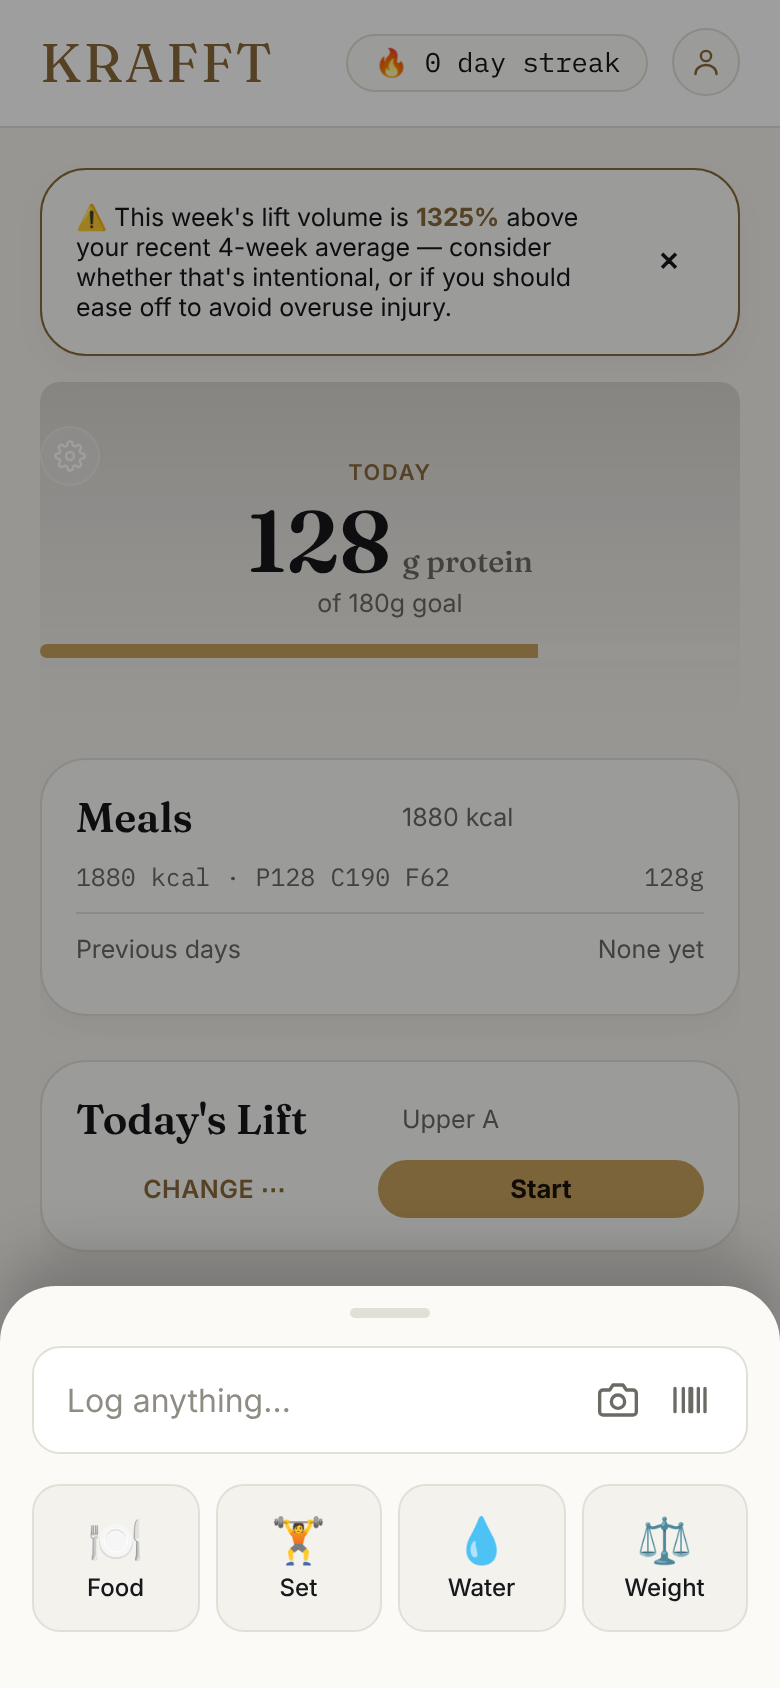
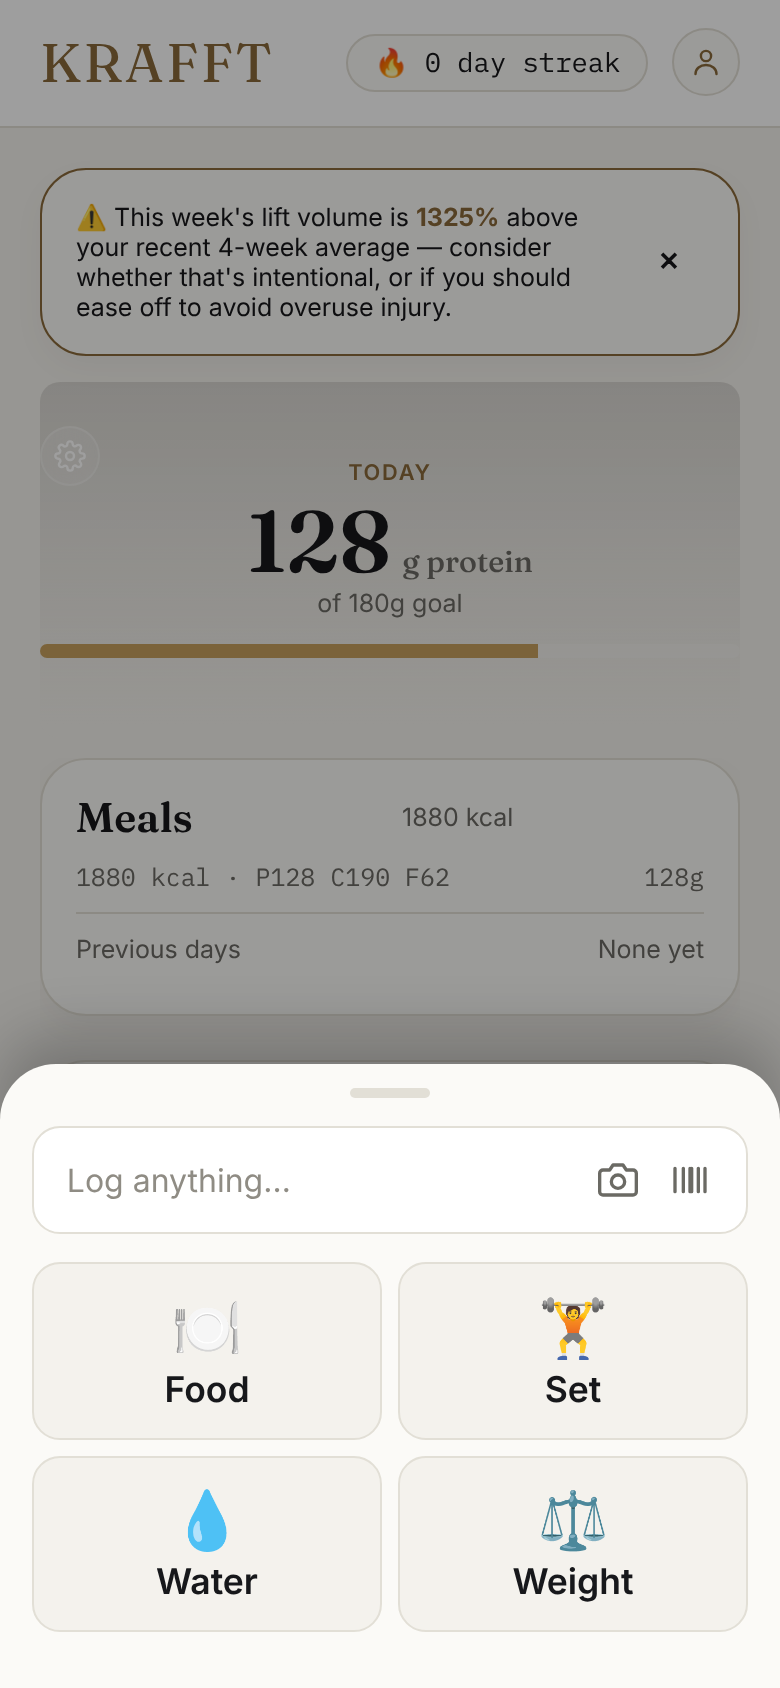
Fidelity pass: Section 3b (+ button) fixes
- Weight prefill bug (found via A2 and re-confirmed here): a freshly-
  added exercise's weight field stayed blank/zero because the prefill
  only looked at this live session's own prior sets, never at actual
  exercise history. resetExerciseDetailInput() now falls back to the
  most recent historical weight when neither exists - the mockup always
  shows a prefilled weight, never a blank one. Fixes both the A2 screen
  and the quick-log screen at once, since both share this function.
- + sheet tiles: mockup is a 2x2 grid, this was a single row of 4;
  "last used" was a gold outline with no label, mockup is a 2px ink
  border plus a "Last used" caption underneath.
- "Log a set" picker: title was 17.6px, scaled mockup value is 27px;
  "Close" was a plain ghost button, mockup styles it as a chip.
- Quick-log screen's "Open full workout" link was forced uppercase by
  the shared .btn-link rule; mockup shows it in sentence case,
  underlined - fixed with a scoped inline override, not a global change.

Claude-Session: https://claude.ai/code/session_015L9cyNh1v2vMK9ZcFbmR4a

diff --git a/index.html b/index.html
@@ -483,11 +483,16 @@
   .plus-log-field input::placeholder { color: var(--text-faint); }
   .plus-log-field button { background: none; border: none; padding: 0.2rem; cursor: pointer; color: var(--text-dim); display: flex; }
   .plus-log-field svg { width: 20px; height: 20px; }
-  .plus-tiles { display: grid; grid-template-columns: repeat(4, 1fr); gap: 0.5rem; margin-top: 0.9rem; }
+  /* Mockup: 2x2 grid (not a single row of 4), tile label 12.5px/600, icon
+     20px, last-used = 2px ink border + a "Last used" caption - not a
+     gold outline with no caption. Mockup px x1.4234: label ~1.11rem,
+     icon ~1.78rem. */
+  .plus-tiles { display: grid; grid-template-columns: repeat(2, 1fr); gap: 0.5rem; margin-top: 0.9rem; }
   .plus-tile { background: var(--bg); border: 1px solid var(--border); border-radius: 14px; text-align: center;
-    padding: 0.85rem 0.1rem; font-size: 0.75rem; font-weight: 500; color: var(--text); cursor: pointer; }
-  .plus-tile.last-used { outline: 2px solid var(--gold, #C7A15E); outline-offset: -1px; }
-  .plus-tile b { display: block; font-size: 1.4rem; margin-bottom: 0.2rem; font-weight: 400; }
+    padding: 0.85rem 0.1rem; font-size: 1.11rem; font-weight: 600; color: var(--text); cursor: pointer; }
+  .plus-tile.last-used { border: 2px solid var(--text); }
+  .plus-tile b { display: block; font-size: 1.78rem; margin-bottom: 0.2rem; font-weight: 400; }
+  .plus-tile-lastused-caption { display: block; font-size: 0.68rem; font-weight: 500; color: var(--text-dim); margin-top: 0.15rem; }
   .plus-confirm-row { display: flex; justify-content: space-between; padding: 0.5rem 0; border-top: 1px solid var(--divider); }
   .plus-confirm-row:first-of-type { border-top: none; }
 
@@ -3762,6 +3767,7 @@ function plusSheetHtml() {
   const tile = (key, label, icon) => `
     <button class="plus-tile ${last === key ? 'last-used' : ''}" data-plus-tile="${key}">
       <b>${icon}</b>${label}
+      ${last === key ? `<span class="plus-tile-lastused-caption">Last used</span>` : ''}
     </button>`;
   return `
     <div class="plus-sheet-handle"></div>
@@ -9969,9 +9975,9 @@ function quickWorkoutAddExercise(name) {
 // so a set logged here has the same autosave, rest timer and PR checks.
 function renderPlusLogSetPicker(panel) {
   panel.innerHTML = `
-    <div class="row" style="justify-content:space-between;align-items:center;margin-bottom:0.5rem;">
-      <div class="display" style="font-size:1.1rem;">Log a set</div>
-      <button class="btn btn-sm btn-ghost" id="plsCloseBtn">Close</button>
+    <div class="row" style="justify-content:space-between;align-items:center;margin-bottom:0.5rem;flex-wrap:nowrap;">
+      <div class="display" style="font-size:1.69rem;flex:none;min-width:0;">Log a set</div>
+      <button class="chip" id="plsCloseBtn" style="flex:none;min-width:0;">Close</button>
     </div>
     <div class="card">
       <input class="input" id="plsSearch" placeholder="&#128269; Search exercises" value="${esc(plusLogSetSearch)}">
@@ -10080,7 +10086,7 @@ function renderPlusLogSetQuick(panel, idx) {
   panel.innerHTML = `
     <div class="row" style="justify-content:space-between;align-items:center;margin-bottom:0.5rem;">
       <button class="btn btn-sm btn-ghost" id="plsBackBtn">&#8249; Back</button>
-      <button class="btn-link" id="plsOpenFullBtn">Open full workout</button>
+      <button class="btn-link" id="plsOpenFullBtn" style="text-transform:none;text-decoration:underline;font-size:1rem;">Open full workout</button>
     </div>
     <div class="card">
       <div class="row" style="align-items:flex-start;gap:0.75rem;">
@@ -10257,8 +10263,14 @@ let exerciseDetailJustFinished = false; // shows the PR/estimated-max summary in
 
 function resetExerciseDetailInput(ex) {
   const lastSet = ex.setsLogged[ex.setsLogged.length - 1];
+  // Prefill order: this set's own prior weight, then this live session's
+  // starting weight, then (freshly added, nothing logged yet today) the
+  // most recent historical weight for this exercise - the mockup always
+  // shows the weight field prefilled from "last time", not blank.
+  let weight = lastSet?.weight ?? ex.weight;
+  if (weight == null) weight = lastTimeLabelFor(ex.name, false)?.weight ?? null;
   exerciseDetailInput = {
-    weight: lastSet ? String(toDisplayWeight(lastSet.weight ?? ex.weight ?? 0).value) : (ex.weight != null ? String(toDisplayWeight(ex.weight).value) : ''),
+    weight: weight != null ? String(toDisplayWeight(weight).value) : '',
     reps: '', distance: '', durationSeconds: '', timerRunning: false, timerStartedAt: null,
   };
   exerciseDetailCueExpanded = false;
